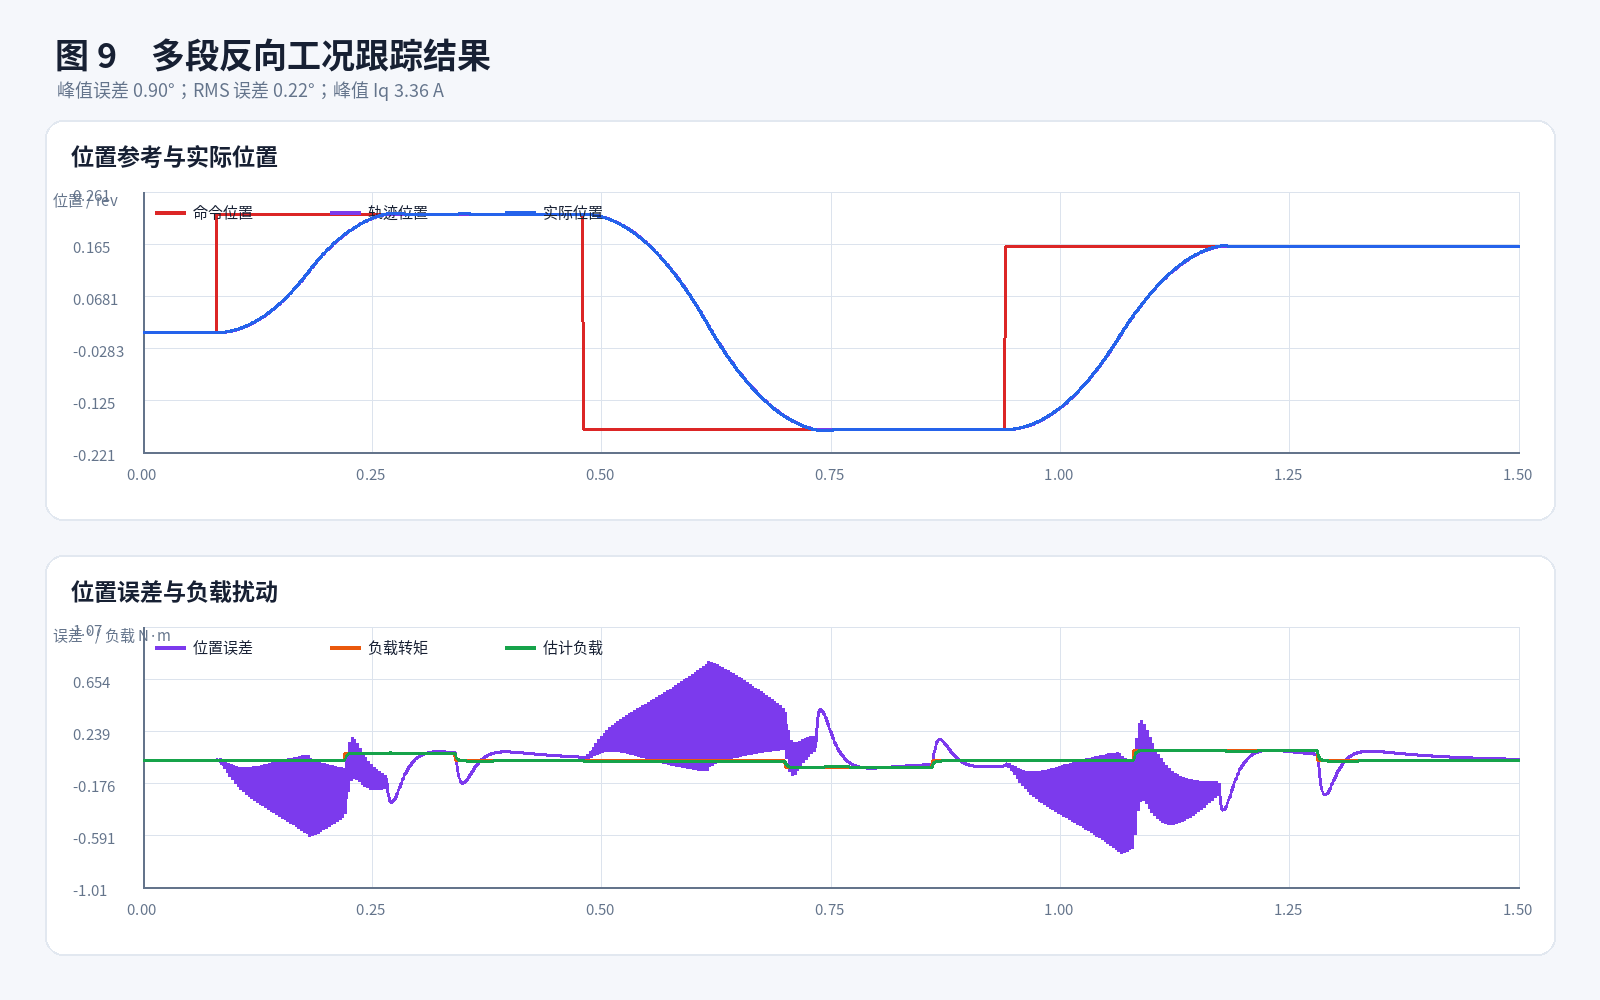
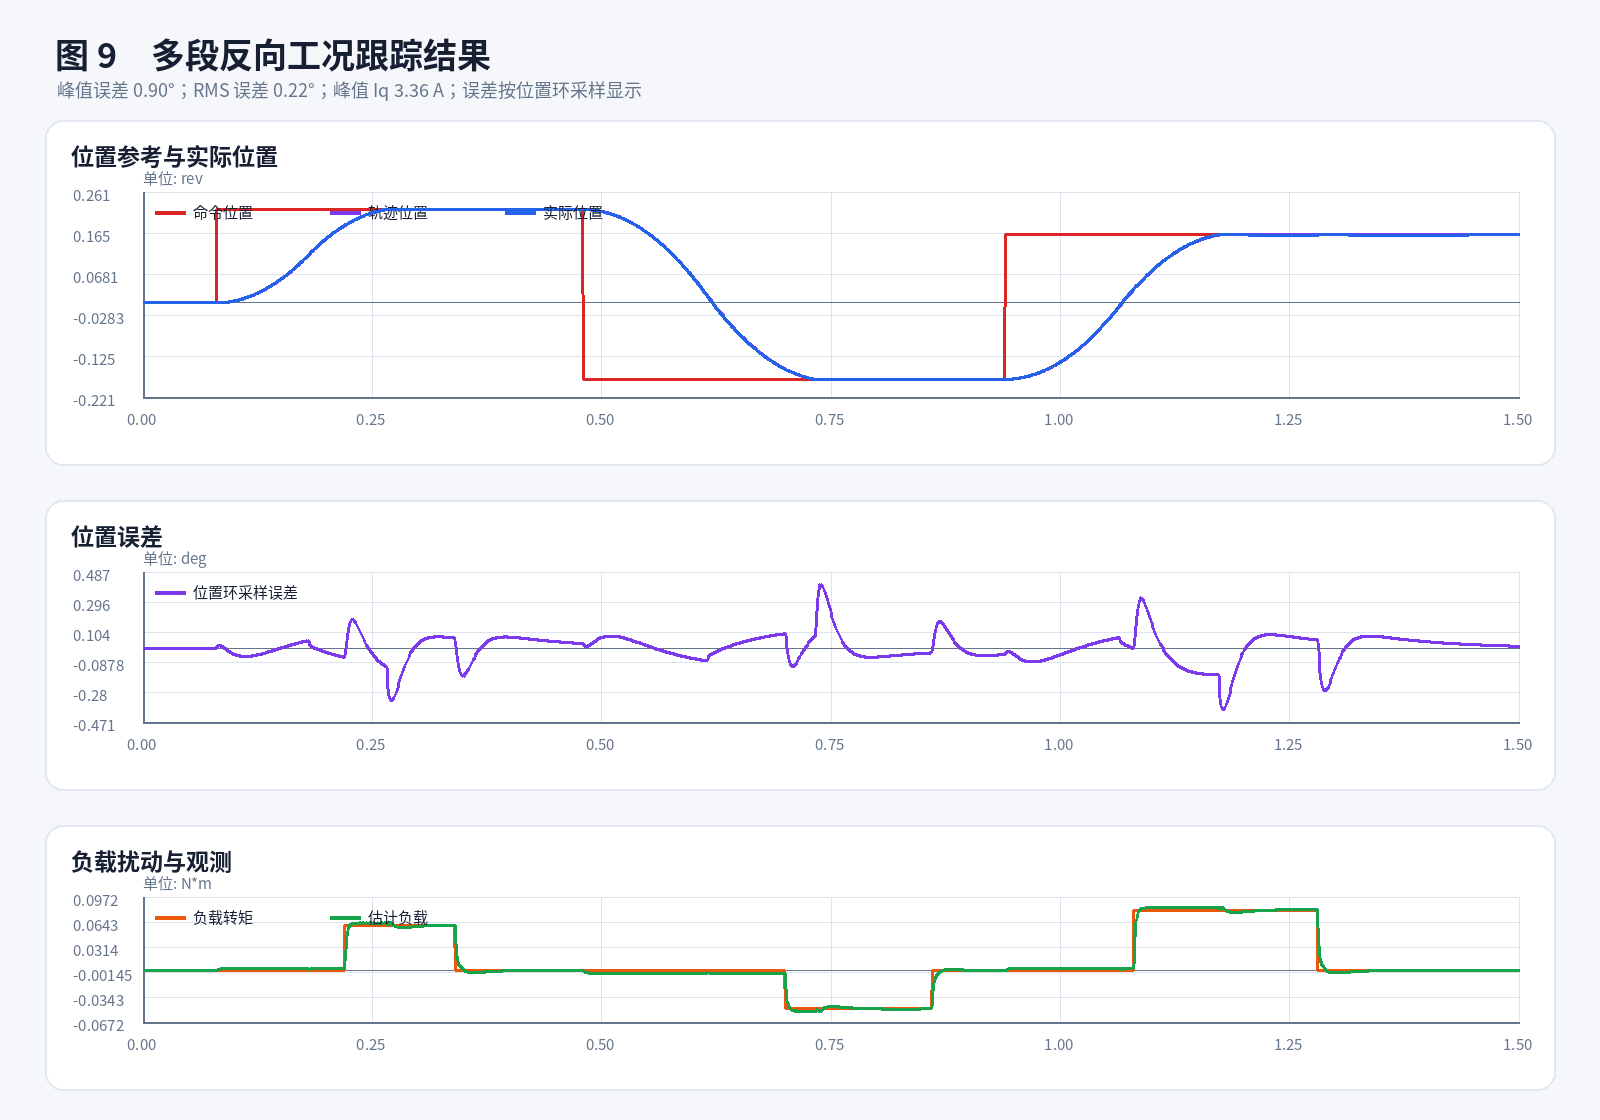
Improve stress tracking plots

diff --git a/FOC 学习资料整理/foc_simulation/rdrive_three_loop/stress_scenarios.py b/FOC 学习资料整理/foc_simulation/rdrive_three_loop/stress_scenarios.py
@@ -108,7 +108,7 @@ def _draw_axes(
             draw.text((x - 16, bottom + 10), f"{value:.2f}", font=FONT_SMALL, fill=MUTED)
     draw.line((left, top, left, bottom), fill=AXIS, width=2)
     draw.line((left, bottom, right, bottom), fill=AXIS, width=2)
-    draw.text((left - 90, top - 4), ylabel, font=FONT_SMALL, fill=MUTED)
+    draw.text((left, top - 26), ylabel, font=FONT_SMALL, fill=MUTED)
 
     def sx(value: float) -> float:
         return left + (value - xmin) / max(1e-12, xmax - xmin) * (right - left)
@@ -132,6 +132,8 @@ def _draw_line_chart(
     y_values = np.concatenate([values for _, values, _ in series])
     ymin, ymax = _nice_range(y_values)
     sx, sy = _draw_axes(draw, area, float(time[0]), float(time[-1]), ymin, ymax, ylabel)
+    if ymin < 0.0 < ymax:
+        draw.line((area[0], sy(0.0), area[2], sy(0.0)), fill=AXIS, width=1)
     step = max(1, len(time) // 2200)
     legend_x = area[0] + 12
     for name, values, color in series:
@@ -141,6 +143,25 @@ def _draw_line_chart(
         draw.line((legend_x, area[1] + 20, legend_x + 30, area[1] + 20), fill=color, width=4)
         draw.text((legend_x + 38, area[1] + 8), name, font=FONT_SMALL, fill=TEXT)
         legend_x += 175
+
+
+def _position_loop_sample_indices(result: Dict[str, np.ndarray]) -> np.ndarray:
+    """Pick one log sample per position-loop update to avoid drawing aliasing."""
+    time = result["time_s"]
+    if len(time) < 3:
+        return np.arange(len(time))
+    log_dt = float(np.median(np.diff(time)))
+    ref = result["position_ref_rev"]
+    changed = np.flatnonzero(np.abs(np.diff(ref)) > 1.0e-12) + 1
+    if len(changed) >= 3:
+        stride = int(round(float(np.median(np.diff(changed)))))
+    else:
+        stride = int(round(0.001 / max(log_dt, 1.0e-12)))
+    stride = max(1, stride)
+    indices = np.arange(0, len(time), stride, dtype=int)
+    if indices[-1] != len(time) - 1:
+        indices = np.append(indices, len(time) - 1)
+    return indices
 
 
 def _draw_bar_chart(
@@ -330,20 +351,21 @@ def _plot_selected_timeseries(case_data: Dict[str, Tuple[Dict[str, np.ndarray], 
         result, summary = case_data[name]
         t = result["time_s"]
         position_error_deg = (result["position_ref_rev"] - result["position_rev"]) * 360.0
-        image = Image.new("RGB", (WIDTH, HEIGHT), BG)
+        sampled = _position_loop_sample_indices(result)
+        image = Image.new("RGB", (WIDTH, 1120), BG)
         draw = ImageDraw.Draw(image)
         draw.text((55, 28), f"图 9　{title}跟踪结果" if name == "reverse_multi_step" else f"图 10　{title}跟踪结果", font=FONT_TITLE, fill=TEXT)
         draw.text(
             (57, 76),
-            f"峰值误差 {summary['position_peak_error_deg']:.2f}°；RMS 误差 {summary['position_rms_error_deg']:.2f}°；峰值 Iq {summary['max_abs_iq_a']:.2f} A",
+            f"峰值误差 {summary['position_peak_error_deg']:.2f}°；RMS 误差 {summary['position_rms_error_deg']:.2f}°；峰值 Iq {summary['max_abs_iq_a']:.2f} A；误差按位置环采样显示",
             font=FONT_BODY,
             fill=MUTED,
         )
         _draw_line_chart(
             image,
-            (45, 120, 1555, 520),
+            (45, 120, 1555, 465),
             "位置参考与实际位置",
-            "位置 / rev",
+            "单位: rev",
             t,
             [
                 ("命令位置", result["command_position_rev"], RED),
@@ -353,12 +375,21 @@ def _plot_selected_timeseries(case_data: Dict[str, Tuple[Dict[str, np.ndarray], 
         )
         _draw_line_chart(
             image,
-            (45, 555, 1555, 955),
-            "位置误差与负载扰动",
-            "误差 ° / 负载 N·m",
+            (45, 500, 1555, 790),
+            "位置误差",
+            "单位: deg",
+            t[sampled],
+            [
+                ("位置环采样误差", position_error_deg[sampled], PURPLE),
+            ],
+        )
+        _draw_line_chart(
+            image,
+            (45, 825, 1555, 1090),
+            "负载扰动与观测",
+            "单位: N*m",
             t,
             [
-                ("位置误差", position_error_deg, PURPLE),
                 ("负载转矩", result["load_nm"], ORANGE),
                 ("估计负载", result["load_estimate_nm"], GREEN),
             ],

diff --git a/FOC 学习资料整理/foc_simulation/README.md b/FOC 学习资料整理/foc_simulation/README.md
@@ -118,7 +118,7 @@ python3 examples/run_rdrive_stress_scenarios.py
 - `rdrive_three_loop/output/stress/stress_metrics.json`：同一组指标的 JSON 版本。
 - `rdrive_three_loop/output/plots/07_stress_position_error.png`：复杂工况位置峰值/RMS 误差。
 - `rdrive_three_loop/output/plots/08_stress_current_voltage.png`：复杂工况峰值 Iq 和电压利用率。
-- `rdrive_three_loop/output/plots/09_stress_reverse_tracking.png`：多段反向目标下的位置和负载跟踪。
-- `rdrive_three_loop/output/plots/10_stress_sine_load_tracking.png`：正弦负载扰动下的位置和负载跟踪。
+- `rdrive_three_loop/output/plots/09_stress_reverse_tracking.png`：多段反向目标下的位置、位置环采样误差和负载跟踪。
+- `rdrive_three_loop/output/plots/10_stress_sine_load_tracking.png`：正弦负载扰动下的位置、位置环采样误差和负载跟踪。
 
 说明文档见 `docs/RDrive三环仿真迁移说明.md`。

diff --git a/FOC 学习资料整理/foc_simulation/rdrive_three_loop/README.md b/FOC 学习资料整理/foc_simulation/rdrive_three_loop/README.md
@@ -51,8 +51,8 @@ python stress_scenarios.py
 - `output/stress/stress_metrics.json`：同一组指标的 JSON 版本。
 - `output/plots/07_stress_position_error.png`：用柱状图比较各工况位置误差。
 - `output/plots/08_stress_current_voltage.png`：比较峰值 Iq 和 SVPWM 电压利用率。
-- `output/plots/09_stress_reverse_tracking.png`：多段反向工况的位置跟踪细节。
-- `output/plots/10_stress_sine_load_tracking.png`：正弦扰动负载下的位置和负载跟踪细节。
+- `output/plots/09_stress_reverse_tracking.png`：多段反向工况的位置、位置环采样误差和负载跟踪细节。
+- `output/plots/10_stress_sine_load_tracking.png`：正弦扰动负载下的位置、位置环采样误差和负载跟踪细节。
 
 指定其他配置或输出目录：
 

diff --git a/FOC 学习资料整理/foc_simulation/docs/RDrive三环仿真迁移说明.md b/FOC 学习资料整理/foc_simulation/docs/RDrive三环仿真迁移说明.md
@@ -59,8 +59,8 @@ rdrive_three_loop/output/
 - `stress/stress_metrics.json`：复杂工况指标 JSON。
 - `plots/07_stress_position_error.png`：各工况位置峰值误差和 RMS 误差。
 - `plots/08_stress_current_voltage.png`：各工况峰值 Iq 和电压利用率。
-- `plots/09_stress_reverse_tracking.png`：多段反向目标的跟踪细节。
-- `plots/10_stress_sine_load_tracking.png`：正弦扰动负载下的跟踪细节。
+- `plots/09_stress_reverse_tracking.png`：多段反向目标的位置、位置环采样误差和负载跟踪细节。
+- `plots/10_stress_sine_load_tracking.png`：正弦扰动负载下的位置、位置环采样误差和负载跟踪细节。
 
 ## 与本机教学仿真的区别
 
